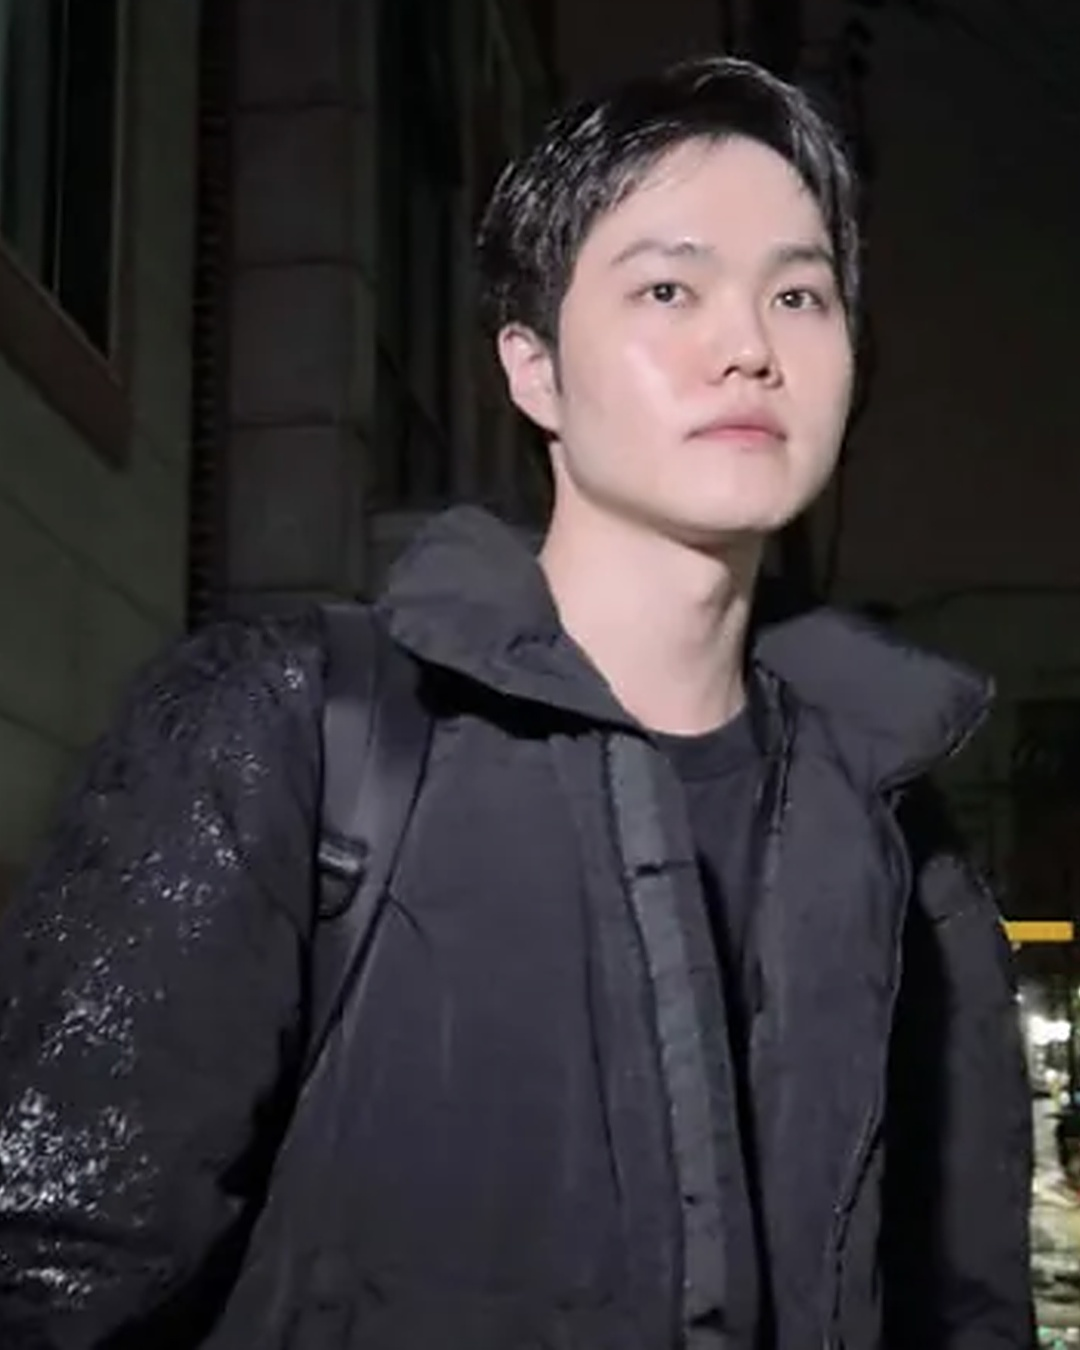
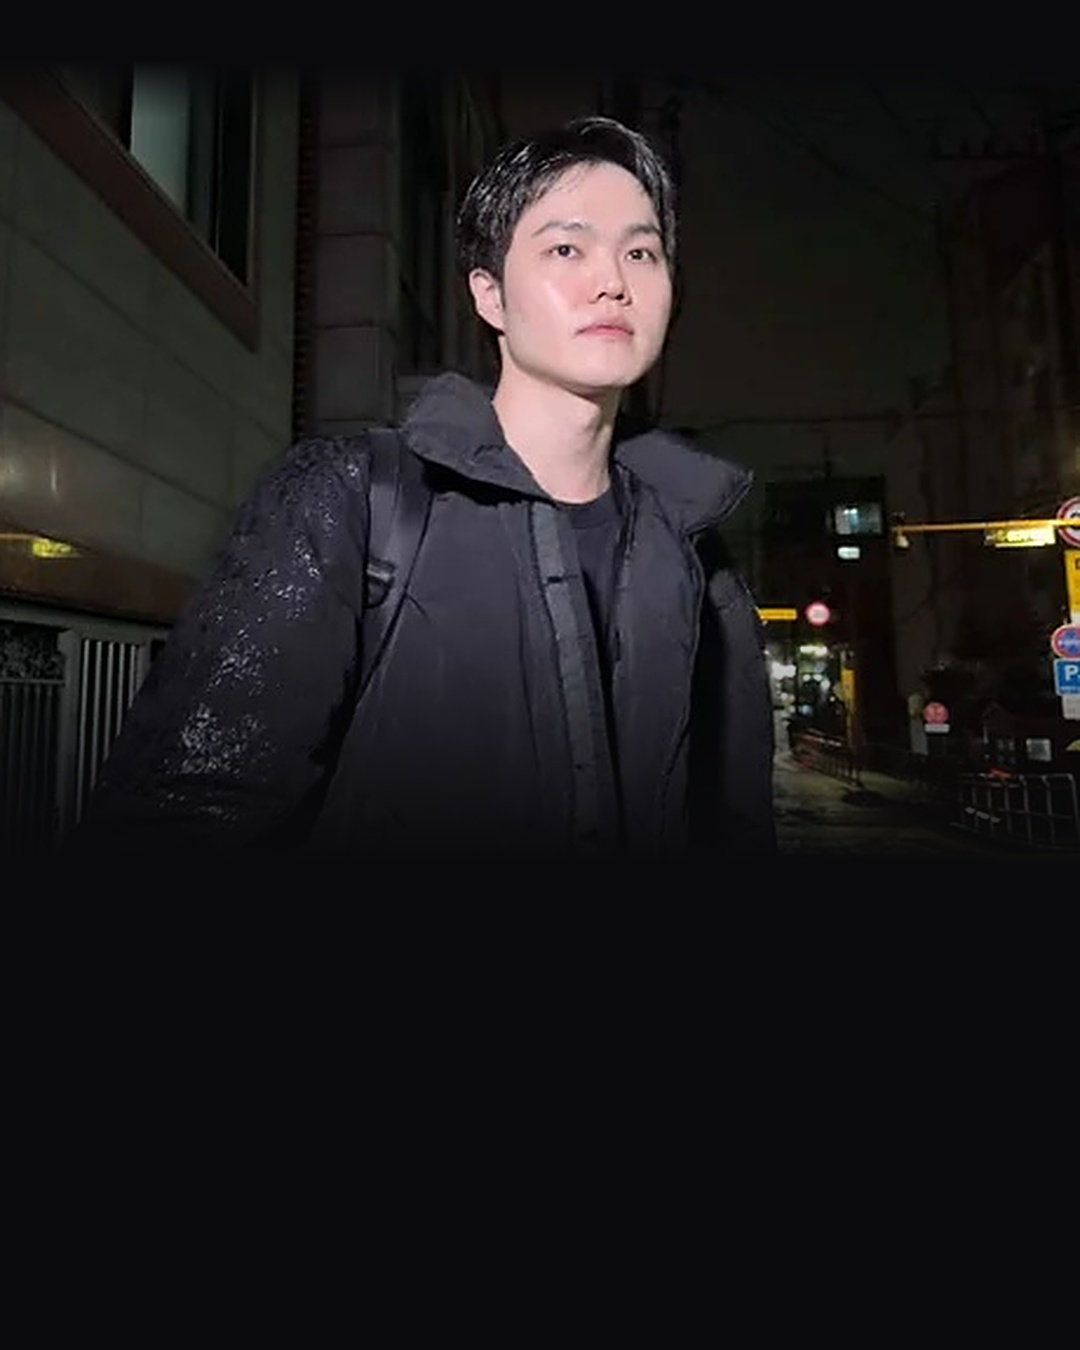
leetint 표지: 사용자 제공 선명한 원본 사진
Claude-Session: https://claude.ai/code/session_01FGsw5QnWxFUsnopcB1Czie

diff --git a/media/20261117-leetint/build_cards.py b/media/20261117-leetint/build_cards.py
@@ -71,5 +71,13 @@ frame(("17일 밤 자택 앞에서 만난 리트 만점자", "의혹 '전면 부
 frame(("시험지 의혹엔 이렇게 답했다", "'확률 희박'은 인정"),
       panel([("25~29번 답 고친 흔적", "\"고민하다 답을 '고른' 거다\""), ("우연일 가능성", "\"확률이 희박하다는 건 '인정한다'\""), ("시험지에 적힌 숫자 '33'", "\"다음 날 '전화통화' 하다 끄적인 것\"")], h=560),
       "스토킹 폭로자엔 '법적 대응' 고려", "부정행위는 아직 확인된 사실이 아닙니다").save(O / "c03.jpg", quality=93)
-fit(op("article_photo.jpg"), W, H, (.5, .2)).filter(ImageFilter.UnsharpMask(2, 80, 2)).save(O / "cover_bg.jpg", quality=95)  # 사용자: 기사 속 17일 밤 자택 앞 사진(중앙일보, X 캡처에서)
+# 표지: 사용자 제공 선명한 원본(610x343, 중앙일보 자택 앞 사진). 세로로 자르면 너무 늘어나서 일부만 자르고(가로 460) 위쪽에 크게 두고 아래는 어둡게 이음
+ph = op("article_photo_hd.jpg").crop((150, 0, 610, 343))
+ph = ph.resize((W, round(ph.height * W / ph.width)), Image.LANCZOS).filter(ImageFilter.UnsharpMask(2, 70, 2))
+bgc = (10, 10, 12); cov = Image.new("RGB", (W, H), bgc); cov.paste(ph, (0, 60))
+g = Image.new("L", (W, 260)); g.putdata([int(255 * y / 259) for y in range(260) for _ in range(W)])
+cov.paste(Image.new("RGB", (W, 260), bgc), (0, 60 + ph.height - 260), g)
+g2 = Image.new("L", (W, 60)); g2.putdata([int(255 * (59 - y) / 59) for y in range(60) for _ in range(W)])
+cov.paste(Image.new("RGB", (W, 60), bgc), (0, 60), g2)
+cov.save(O / "cover_bg.jpg", quality=95)
 print("ok")
